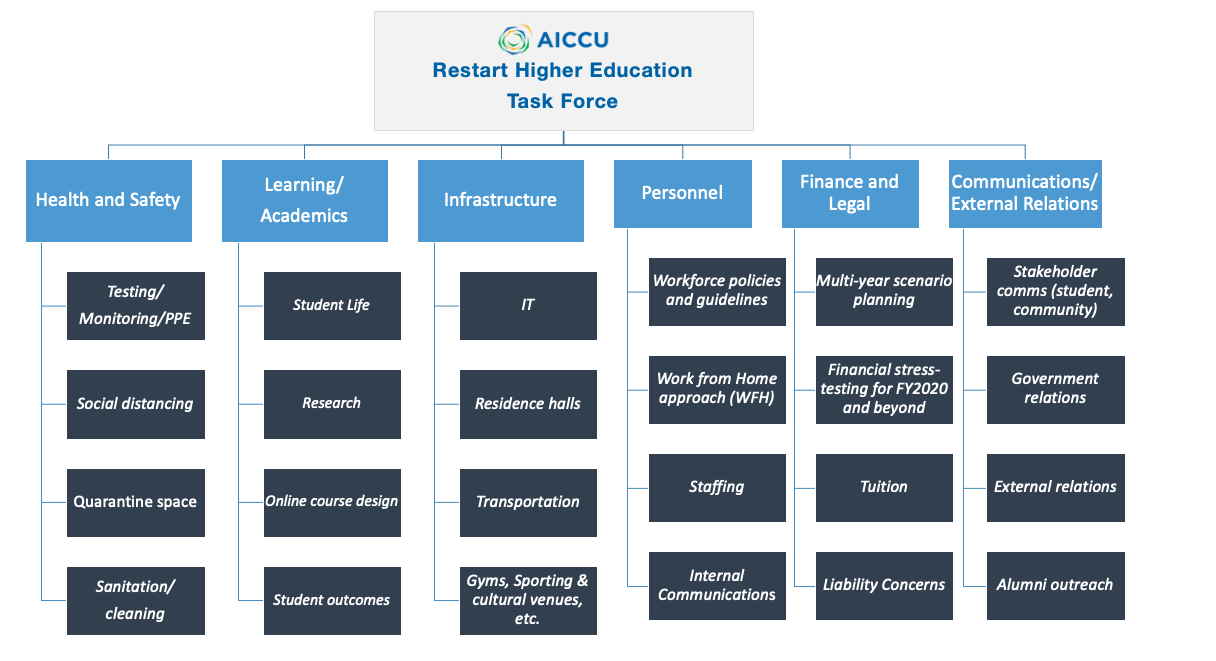
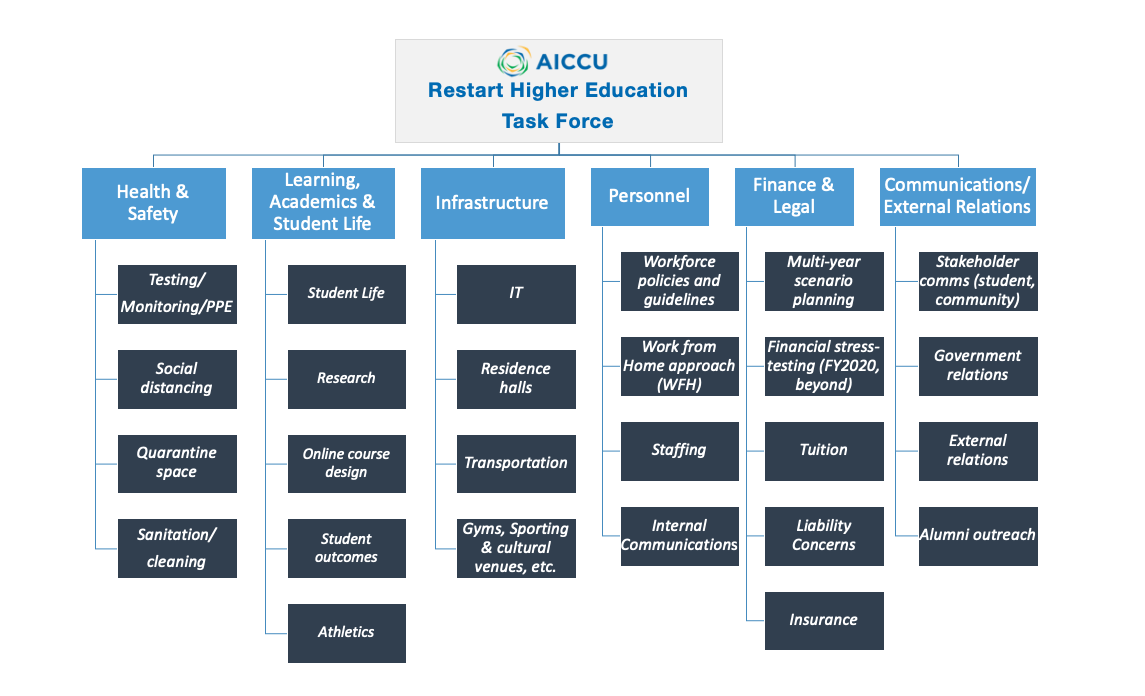
v8

diff --git a/index.html b/index.html
@@ -138,8 +138,8 @@
 <div id="focus-areas" class="section level2">
 <h2><span class="header-section-number">0.2</span> Focus Areas</h2>
 <p>We will focus our efforts on six areas:
-<div id="htmlwidget-760d952a507bb03b12bf" style="width:100%;height:auto;" class="datatables html-widget"></div>
-<script type="application/json" data-for="htmlwidget-760d952a507bb03b12bf">{"x":{"filter":"none","extensions":["Buttons"],"data":[["1","2","3","4","5","6"],["Health and Safety","Learning/Academics","Infrastructure","Personnel ","Finance and Legal ","Communications and External Relations"],["What considerations are needed regarding health and safety to restart our institutions?","What considerations are needed regarding learning and academics to restart institutions and support student success?","What considerations are needed regarding infrastructure/facilities to reopen campuses?","What considerations are needed around personnel to restart institutions  and support faculty and staff?","What considerations are needed around finances and liability concerns to restart institutions and plan for the future?","What considerations are needed around external relations and communications to restart institutions and plan for the future?"],["Infection Control and Public Health Measures Needed on Campus (testing, social distancing, PPE, temperature monitoring, sanitation/cleaning, community education, etc.)","Student Social/Student Life, Research, Online course design, Student outcomes (e.g., retention, completion, placement)","IT, Residence Halls redesign, transportation, gyms, sporting &amp; cultural venues, etc.","Workforce policies and guidelines, Work from Home approach (WFH), Staffing, Workplace norms\nInternal Communications","Multi-year scenario planning, Financial stress-testing for FY2020 and beyond, Cash management, Endowment","Stakeholder communications - voice of the student and community, \nGovernment relations, External relations (include community coordination), Alumni outreach"]],"container":"<table class=\"display\">\n  <thead>\n    <tr>\n      <th> <\/th>\n      <th>Topic<\/th>\n      <th>Guiding.Question<\/th>\n      <th>Examples<\/th>\n    <\/tr>\n  <\/thead>\n<\/table>","options":{"dom":"B","buttons":["copy","csv"],"order":[],"autoWidth":false,"orderClasses":false,"columnDefs":[{"orderable":false,"targets":0}]}},"evals":[],"jsHooks":[]}</script></p>
+<div id="htmlwidget-e62eb888351d046534c4" style="width:100%;height:auto;" class="datatables html-widget"></div>
+<script type="application/json" data-for="htmlwidget-e62eb888351d046534c4">{"x":{"filter":"none","extensions":["Buttons"],"data":[["1","2","3","4","5","6"],["Health &amp; Safety","Learning, Academics &amp; Student Life","Infrastructure","Personnel ","Finance &amp; Legal ","Communications &amp; External Relations"],["What considerations are needed regarding health and safety to restart our institutions?","What considerations are needed regarding learning and academics to restart institutions and support student success?","What considerations are needed regarding infrastructure/facilities to reopen campuses?","What considerations are needed around personnel to restart institutions  and support faculty and staff?","What considerations are needed around finances and liability concerns to restart institutions and plan for the future?","What considerations are needed around external relations and communications to restart institutions and plan for the future?"],["Infection Control and Public Health Measures Needed on Campus (testing, social distancing, PPE, temperature monitoring, sanitation/cleaning, community education, etc.)","Student Social/Student Life, Research, Online course design, Student outcomes (e.g., retention, completion, placement)","IT, Residence Halls redesign, transportation, gyms, sporting &amp; cultural venues, etc.","Workforce policies and guidelines, Work from Home approach (WFH), Staffing, Workplace norms\nInternal Communications","Multi-year scenario planning, Financial stress-testing for FY2020 and beyond, Cash management, Endowment","Stakeholder communications - voice of the student and community, \nGovernment relations, External relations (include community coordination), Alumni outreach"]],"container":"<table class=\"display\">\n  <thead>\n    <tr>\n      <th> <\/th>\n      <th>Topic<\/th>\n      <th>Guiding.Question<\/th>\n      <th>Examples<\/th>\n    <\/tr>\n  <\/thead>\n<\/table>","options":{"dom":"B","buttons":["copy","csv"],"order":[],"autoWidth":false,"orderClasses":false,"columnDefs":[{"orderable":false,"targets":0}]}},"evals":[],"jsHooks":[]}</script></p>
 <p><img src="PlanningChart_4.30.20.png"></p>
 </div>
 <div id="supporting-documents" class="section level2">
@@ -159,14 +159,14 @@ How is higher ed thinking about fall? These four cases, in <a href="https://twit
 </ul>
 <div id="mckinseys-nerve-center-framework" class="section level3">
 <h3><span class="header-section-number">0.3.1</span> McKinsey’s Nerve Center Framework</h3>
-<div id="htmlwidget-c2b97fe0e5458c7ca6b4" class="reactable html-widget" style="width:auto;height:auto;"></div>
-<script type="application/json" data-for="htmlwidget-c2b97fe0e5458c7ca6b4">{"x":{"tag":{"name":"Reactable","attribs":{"data":{"Topic":["Students","Students","Students","Students","Students","Students","Students","Teaching and Research","Teaching and Research","Teaching and Research","Teaching and Research","Teaching and Research","Teaching and Research","Teaching and Research","Faculty and Staff","Faculty and Staff","Faculty and Staff","Faculty and Staff","Faculty and Staff","Campus Operations","Campus Operations","Campus Operations","Campus Operations","Campus Operations","Campus Operations","Campus Operations","Finance and Legal","Finance and Legal","Finance and Legal","Finance and Legal","Finance and Legal","Finance and Legal","Finance and Legal","Communications and External Relations","Communications and External Relations","Communications and External Relations","Communications and External Relations"],"Subtopics":["Health and Safety of Students","Student Experience","Credit and Graduation Policies","Support Services","Student Events (e.g., commencement)","Student Athletics","Travel","Faculty training and engagement","Online course design","Research Policies","Local research impact and partnerships","Student outcomes (e.g., retention, completion, placement","Recruitment","Study Abroad","Health and Safety of Faculty and Staff","Workforce policies and guidelines","Work from Home approach (WFH)","Workplace norms","Internal Communications","Real Estate","Facilities and capital construction","Campus security and access","Incident management (students, faculty and staff)","Auxiliary Operations (e.g. bookstore, cafeteria)","Athletics","Technology (including work from home and online delivery)","Multi-year scenario planning","Financial stress-testing for FY2020 and beyond","FEMA accounting and Reporting ","Financial analysis of other workstreams","Cash management","Endowment","Advancement","Stakeholder communications - voice of the student and community","Government relations","External relations (include community coordination) ","Alumni outreach)"]},"columns":[{"accessor":"Topic","name":"Topic","type":"factor"},{"accessor":"Subtopics","name":"Subtopics","type":"factor"}],"pivotBy":["Topic"],"defaultPageSize":10,"paginationType":"numbers","showPageInfo":true,"minRows":1,"highlight":true,"bordered":true,"striped":true,"dataKey":"9a35407d46ac345f885a4540bb5cf5d6"},"children":[]},"class":"reactR_markup"},"evals":[],"jsHooks":[]}</script>
+<div id="htmlwidget-570f7bd68987f89882b4" class="reactable html-widget" style="width:auto;height:auto;"></div>
+<script type="application/json" data-for="htmlwidget-570f7bd68987f89882b4">{"x":{"tag":{"name":"Reactable","attribs":{"data":{"Topic":["Students","Students","Students","Students","Students","Students","Students","Teaching and Research","Teaching and Research","Teaching and Research","Teaching and Research","Teaching and Research","Teaching and Research","Teaching and Research","Faculty and Staff","Faculty and Staff","Faculty and Staff","Faculty and Staff","Faculty and Staff","Campus Operations","Campus Operations","Campus Operations","Campus Operations","Campus Operations","Campus Operations","Campus Operations","Finance and Legal","Finance and Legal","Finance and Legal","Finance and Legal","Finance and Legal","Finance and Legal","Finance and Legal","Communications and External Relations","Communications and External Relations","Communications and External Relations","Communications and External Relations"],"Subtopics":["Health and Safety of Students","Student Experience","Credit and Graduation Policies","Support Services","Student Events (e.g., commencement)","Student Athletics","Travel","Faculty training and engagement","Online course design","Research Policies","Local research impact and partnerships","Student outcomes (e.g., retention, completion, placement","Recruitment","Study Abroad","Health and Safety of Faculty and Staff","Workforce policies and guidelines","Work from Home approach (WFH)","Workplace norms","Internal Communications","Real Estate","Facilities and capital construction","Campus security and access","Incident management (students, faculty and staff)","Auxiliary Operations (e.g. bookstore, cafeteria)","Athletics","Technology (including work from home and online delivery)","Multi-year scenario planning","Financial stress-testing for FY2020 and beyond","FEMA accounting and Reporting ","Financial analysis of other workstreams","Cash management","Endowment","Advancement","Stakeholder communications - voice of the student and community","Government relations","External relations (include community coordination) ","Alumni outreach)"]},"columns":[{"accessor":"Topic","name":"Topic","type":"factor"},{"accessor":"Subtopics","name":"Subtopics","type":"factor"}],"pivotBy":["Topic"],"defaultPageSize":10,"paginationType":"numbers","showPageInfo":true,"minRows":1,"highlight":true,"bordered":true,"striped":true,"dataKey":"9a35407d46ac345f885a4540bb5cf5d6"},"children":[]},"class":"reactR_markup"},"evals":[],"jsHooks":[]}</script>
 </div>
 </div>
 <div id="members" class="section level2">
 <h2><span class="header-section-number">0.4</span> Members</h2>
-<div id="htmlwidget-9cdd514b170d8faf432b" style="width:100%;height:auto;" class="datatables html-widget"></div>
-<script type="application/json" data-for="htmlwidget-9cdd514b170d8faf432b">{"x":{"filter":"none","extensions":["Buttons"],"data":[["1","2","3","4","5","6","7","8","9","10","11","12","13","14","15","16","17","18","19","20","21","22"],["David Carlisle","Paul Ferguson","G. Gabrielle Starr (Chair)","David Fike","Devorah Lieberman","Bob Brower","Charles Sands","Nicola Pitchford","Stephanie Kalfayan","Dawn Emrich","John Ojeisekhob","Debra Martin","Michael Crowley","Terri Carbaugh","Janine DuMontelle","Karen Briggs","Mark Todd","Jon Endicott","Kristen Soares","Natasha Baker","Veronica Villalobos Cruz","Rekha Murthy"],["President","President","President","President","President","President","Provost and Vice President for Academic Affairs","Vice President for Academic Affairs","Vice Provost for Academic Affairs","Director of Public Safety","Associate VP and Chief of Campus Safety","Vice President for Administration &amp; Finance","Vice President of Finance &amp; Administration","Vice Chancellor of Public Affairs","Vice President &amp; General Counsel\nOffice of Legal Affairs","Associate Vice President and Chief Human Resources","Vice Provost for Academic Operations","Vice President of Enrollment Management","President","Managing Attorney","Managing Partner","Vice President of Medical Affairs"],["Charles Drew University","Azusa Pacific University ","Pomona College","Golden Gate University ","University of La Verne","Point Loma Nazarene University ","California Baptist University ","Dominican University of California","Stanford Univeristy ","Pepperdine University ","Biola Univeristy ","Mount Saint Mary's University ","Santa Clara University","Brandman University ","Chapman University","University of San Diego ","University of Southern California ","Fresno Pacific University ","AICCU","AICCU","AICCU","Cedar-Sinai Medical Center"],["LA","LA","LA","Bay Area","LA","SD","Inland Empire","Bay Area","Bay Area","LA","LA","LA","Bay Area","OC","OC","SD","LA","Central Valley","Sacramento ","Bay Area","Sacramento ","LA"],["Public Health","Epidemiologist ",null,null,null,null,"Academic","Academic","Student Affairs","Health/Safety","Health/Safety","Finance","Finance ","Communications","General Council","Human Resources","Opperations ","Enrollment/Admissions/Recruitment",null,"General Council","Government Relations","Public Health"]],"container":"<table class=\"display\">\n  <thead>\n    <tr>\n      <th> <\/th>\n      <th>Name<\/th>\n      <th>Title<\/th>\n      <th>Institution<\/th>\n      <th>Region<\/th>\n      <th>Expertise<\/th>\n    <\/tr>\n  <\/thead>\n<\/table>","options":{"dom":"Bfrtip","buttons":["copy","csv"],"order":[],"autoWidth":false,"orderClasses":false,"columnDefs":[{"orderable":false,"targets":0}]}},"evals":[],"jsHooks":[]}</script>
+<div id="htmlwidget-21794311d153e4044b19" style="width:100%;height:auto;" class="datatables html-widget"></div>
+<script type="application/json" data-for="htmlwidget-21794311d153e4044b19">{"x":{"filter":"none","extensions":["Buttons"],"data":[["1","2","3","4","5","6","7","8","9","10","11","12","13","14","15","16","17","18","19","20","21","22"],["David Carlisle","Paul Ferguson","G. Gabrielle Starr (Chair)","David Fike","Devorah Lieberman","Bob Brower","Charles Sands","Nicola Pitchford","Stephanie Kalfayan","Dawn Emrich","John Ojeisekhob","Debra Martin","Michael Crowley","Terri Carbaugh","Janine DuMontelle","Karen Briggs","Mark Todd","Jon Endicott","Kristen Soares","Natasha Baker","Veronica Villalobos Cruz","Rekha Murthy"],["President","President","President","President","President","President","Provost and Vice President for Academic Affairs","Vice President for Academic Affairs","Vice Provost for Academic Affairs","Director of Public Safety","Associate VP and Chief of Campus Safety","Vice President for Administration &amp; Finance","Vice President of Finance &amp; Administration","Vice Chancellor of Public Affairs","Vice President &amp; General Counsel\nOffice of Legal Affairs","Associate Vice President and Chief Human Resources","Vice Provost for Academic Operations","Vice President of Enrollment Management","President","Managing Attorney","Managing Partner","Vice President of Medical Affairs"],["Charles Drew University","Azusa Pacific University ","Pomona College","Golden Gate University ","University of La Verne","Point Loma Nazarene University ","California Baptist University ","Dominican University of California","Stanford Univeristy ","Pepperdine University ","Biola Univeristy ","Mount Saint Mary's University ","Santa Clara University","Brandman University ","Chapman University","University of San Diego ","University of Southern California ","Fresno Pacific University ","AICCU","AICCU","AICCU","Cedar-Sinai Medical Center"],["LA","LA","LA","Bay Area","LA","SD","Inland Empire","Bay Area","Bay Area","LA","LA","LA","Bay Area","OC","OC","SD","LA","Central Valley","Sacramento ","Bay Area","Sacramento ","LA"],["Public Health","Epidemiologist ",null,null,null,null,"Academic","Academic","Student Affairs","Health/Safety","Health/Safety","Finance","Finance ","Communications","General Council","Human Resources","Opperations ","Enrollment/Admissions/Recruitment",null,"General Council","Government Relations","Public Health"]],"container":"<table class=\"display\">\n  <thead>\n    <tr>\n      <th> <\/th>\n      <th>Name<\/th>\n      <th>Title<\/th>\n      <th>Institution<\/th>\n      <th>Region<\/th>\n      <th>Expertise<\/th>\n    <\/tr>\n  <\/thead>\n<\/table>","options":{"dom":"Bfrtip","buttons":["copy","csv"],"order":[],"autoWidth":false,"orderClasses":false,"columnDefs":[{"orderable":false,"targets":0}]}},"evals":[],"jsHooks":[]}</script>
 </div>
 </div>
             </section>

diff --git a/infrastructure-Randy’s MacBook Pro-2.html b/infrastructure-Randy’s MacBook Pro-2.html
@@ -4,11 +4,11 @@
 
   <meta charset="utf-8" />
   <meta http-equiv="X-UA-Compatible" content="IE=edge" />
-  <title>5 Finance and Legal | AICCU Restart Higher Education Task Force</title>
-  <meta name="description" content="5 Finance and Legal | AICCU Restart Higher Education Task Force" />
+  <title>3 Infrastructure | AICCU Restart Higher Education Task Force</title>
+  <meta name="description" content="3 Infrastructure | AICCU Restart Higher Education Task Force" />
   <meta name="generator" content="bookdown 0.18.1 and GitBook 2.6.7" />
 
-  <meta property="og:title" content="5 Finance and Legal | AICCU Restart Higher Education Task Force" />
+  <meta property="og:title" content="3 Infrastructure | AICCU Restart Higher Education Task Force" />
   <meta property="og:type" content="book" />
   
   <meta property="og:image" content="https://bookdown.org/hneth/ds4psy/images/cover.png" />
@@ -16,7 +16,7 @@
   
 
   <meta name="twitter:card" content="summary" />
-  <meta name="twitter:title" content="5 Finance and Legal | AICCU Restart Higher Education Task Force" />
+  <meta name="twitter:title" content="3 Infrastructure | AICCU Restart Higher Education Task Force" />
   
   
   <meta name="twitter:image" content="https://bookdown.org/hneth/ds4psy/images/cover.png" />
@@ -29,8 +29,8 @@
   <meta name="apple-mobile-web-app-status-bar-style" content="black" />
   
   
-<link rel="prev" href="personnel.html"/>
-<link rel="next" href="communications-and-external-relations.html"/>
+<link rel="prev" href="learningacademics.html"/>
+<link rel="next" href="personnel.html"/>
 <script src="libs/jquery-2.2.3/jquery.min.js"></script>
 <link href="libs/gitbook-2.6.7/css/style.css" rel="stylesheet" />
 <link href="libs/gitbook-2.6.7/css/plugin-table.css" rel="stylesheet" />
@@ -118,16 +118,16 @@
           <div class="page-inner">
 
             <section class="normal" id="section-">
-<div id="finance-and-legal" class="section level1">
-<h1><span class="header-section-number">5</span> Finance and Legal</h1>
+<div id="infrastructure" class="section level1">
+<h1><span class="header-section-number">3</span> Infrastructure</h1>
 </div>
             </section>
 
           </div>
         </div>
       </div>
-<a href="personnel.html" class="navigation navigation-prev " aria-label="Previous page"><i class="fa fa-angle-left"></i></a>
-<a href="communications-and-external-relations.html" class="navigation navigation-next " aria-label="Next page"><i class="fa fa-angle-right"></i></a>
+<a href="learningacademics.html" class="navigation navigation-prev " aria-label="Previous page"><i class="fa fa-angle-left"></i></a>
+<a href="personnel.html" class="navigation navigation-next " aria-label="Next page"><i class="fa fa-angle-right"></i></a>
     </div>
   </div>
 <script src="libs/gitbook-2.6.7/js/app.min.js"></script>

diff --git a/communications-and-external-relations-Randy’s MacBook Pro.html b/communications-and-external-relations-Randy’s MacBook Pro.html
@@ -84,7 +84,7 @@
       <nav role="navigation">
 
 <ul class="summary">
-<li><a href="./">AICCU Restart Higher Education Task Force</a></li>
+<li><a href="../restart">AICCU Restart Higher Education Task Force</a></li>
 
 <li class="divider"></li>
 <li class="chapter" data-level="" data-path="index.html"><a href="index.html"><i class="fa fa-check"></i>Overview</a><ul>
@@ -110,7 +110,7 @@
       <div class="body-inner">
         <div class="book-header" role="navigation">
           <h1>
-            <i class="fa fa-circle-o-notch fa-spin"></i><a href="./">AICCU Restart Higher Education Task Force</a>
+            <i class="fa fa-circle-o-notch fa-spin"></i><a href="../restart">AICCU Restart Higher Education Task Force</a>
           </h1>
         </div>
 

diff --git a/index-Randy’s MacBook Pro-2.html b/index-Randy’s MacBook Pro-2.html
@@ -84,7 +84,7 @@
       <nav role="navigation">
 
 <ul class="summary">
-<li><a href="./">AICCU Restart Higher Education Task Force</a></li>
+<li><a href="../restart">AICCU Restart Higher Education Task Force</a></li>
 
 <li class="divider"></li>
 <li class="chapter" data-level="" data-path="index.html"><a href="index.html"><i class="fa fa-check"></i>Overview</a><ul>
@@ -110,7 +110,7 @@
       <div class="body-inner">
         <div class="book-header" role="navigation">
           <h1>
-            <i class="fa fa-circle-o-notch fa-spin"></i><a href="./">AICCU Restart Higher Education Task Force</a>
+            <i class="fa fa-circle-o-notch fa-spin"></i><a href="../restart">AICCU Restart Higher Education Task Force</a>
           </h1>
         </div>
 

diff --git a/learningacademics-Randy’s MacBook Pro.html b/learningacademics-Randy’s MacBook Pro.html
@@ -84,7 +84,7 @@
       <nav role="navigation">
 
 <ul class="summary">
-<li><a href="./">AICCU Restart Higher Education Task Force</a></li>
+<li><a href="../restart">AICCU Restart Higher Education Task Force</a></li>
 
 <li class="divider"></li>
 <li class="chapter" data-level="" data-path="index.html"><a href="index.html"><i class="fa fa-check"></i>Overview</a><ul>
@@ -110,7 +110,7 @@
       <div class="body-inner">
         <div class="book-header" role="navigation">
           <h1>
-            <i class="fa fa-circle-o-notch fa-spin"></i><a href="./">AICCU Restart Higher Education Task Force</a>
+            <i class="fa fa-circle-o-notch fa-spin"></i><a href="../restart">AICCU Restart Higher Education Task Force</a>
           </h1>
         </div>
 
